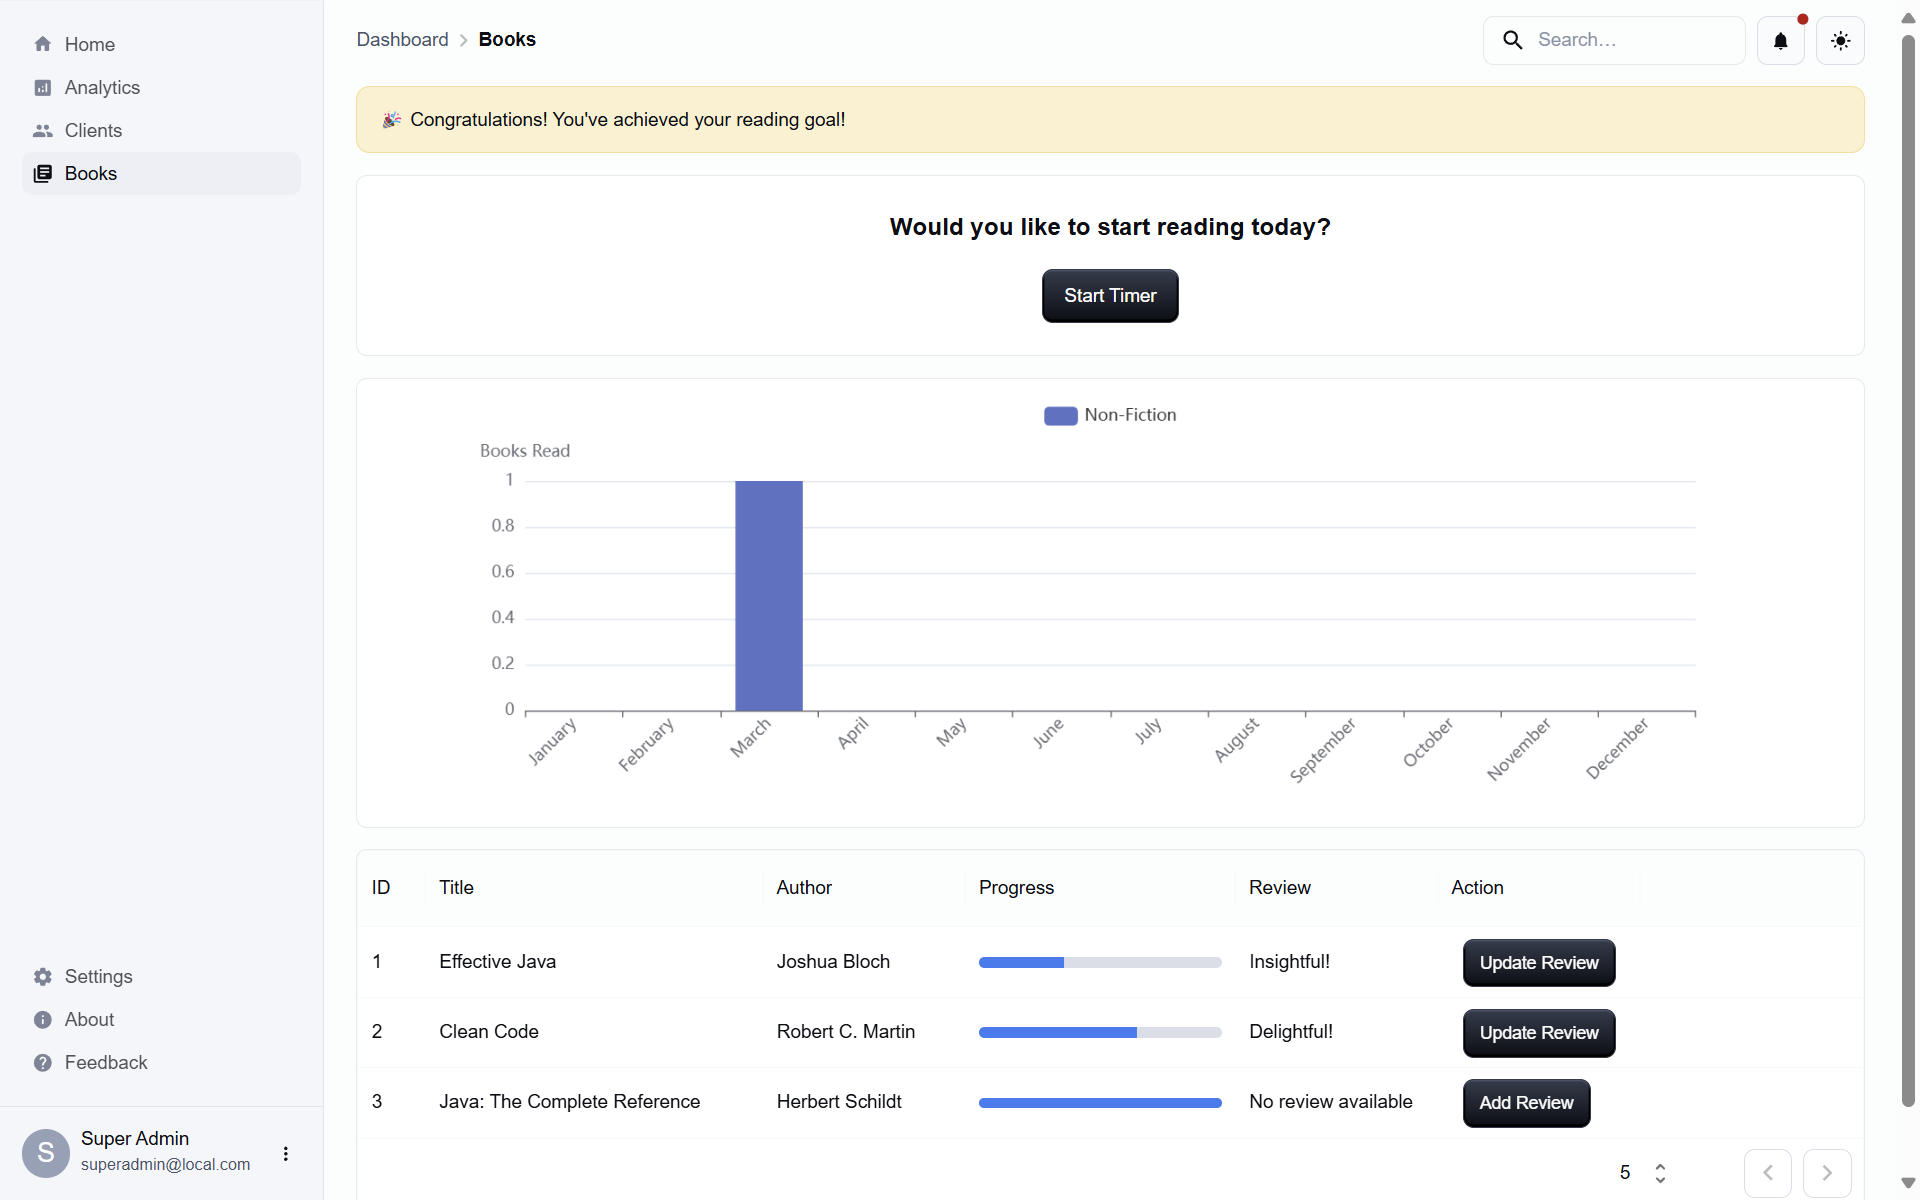
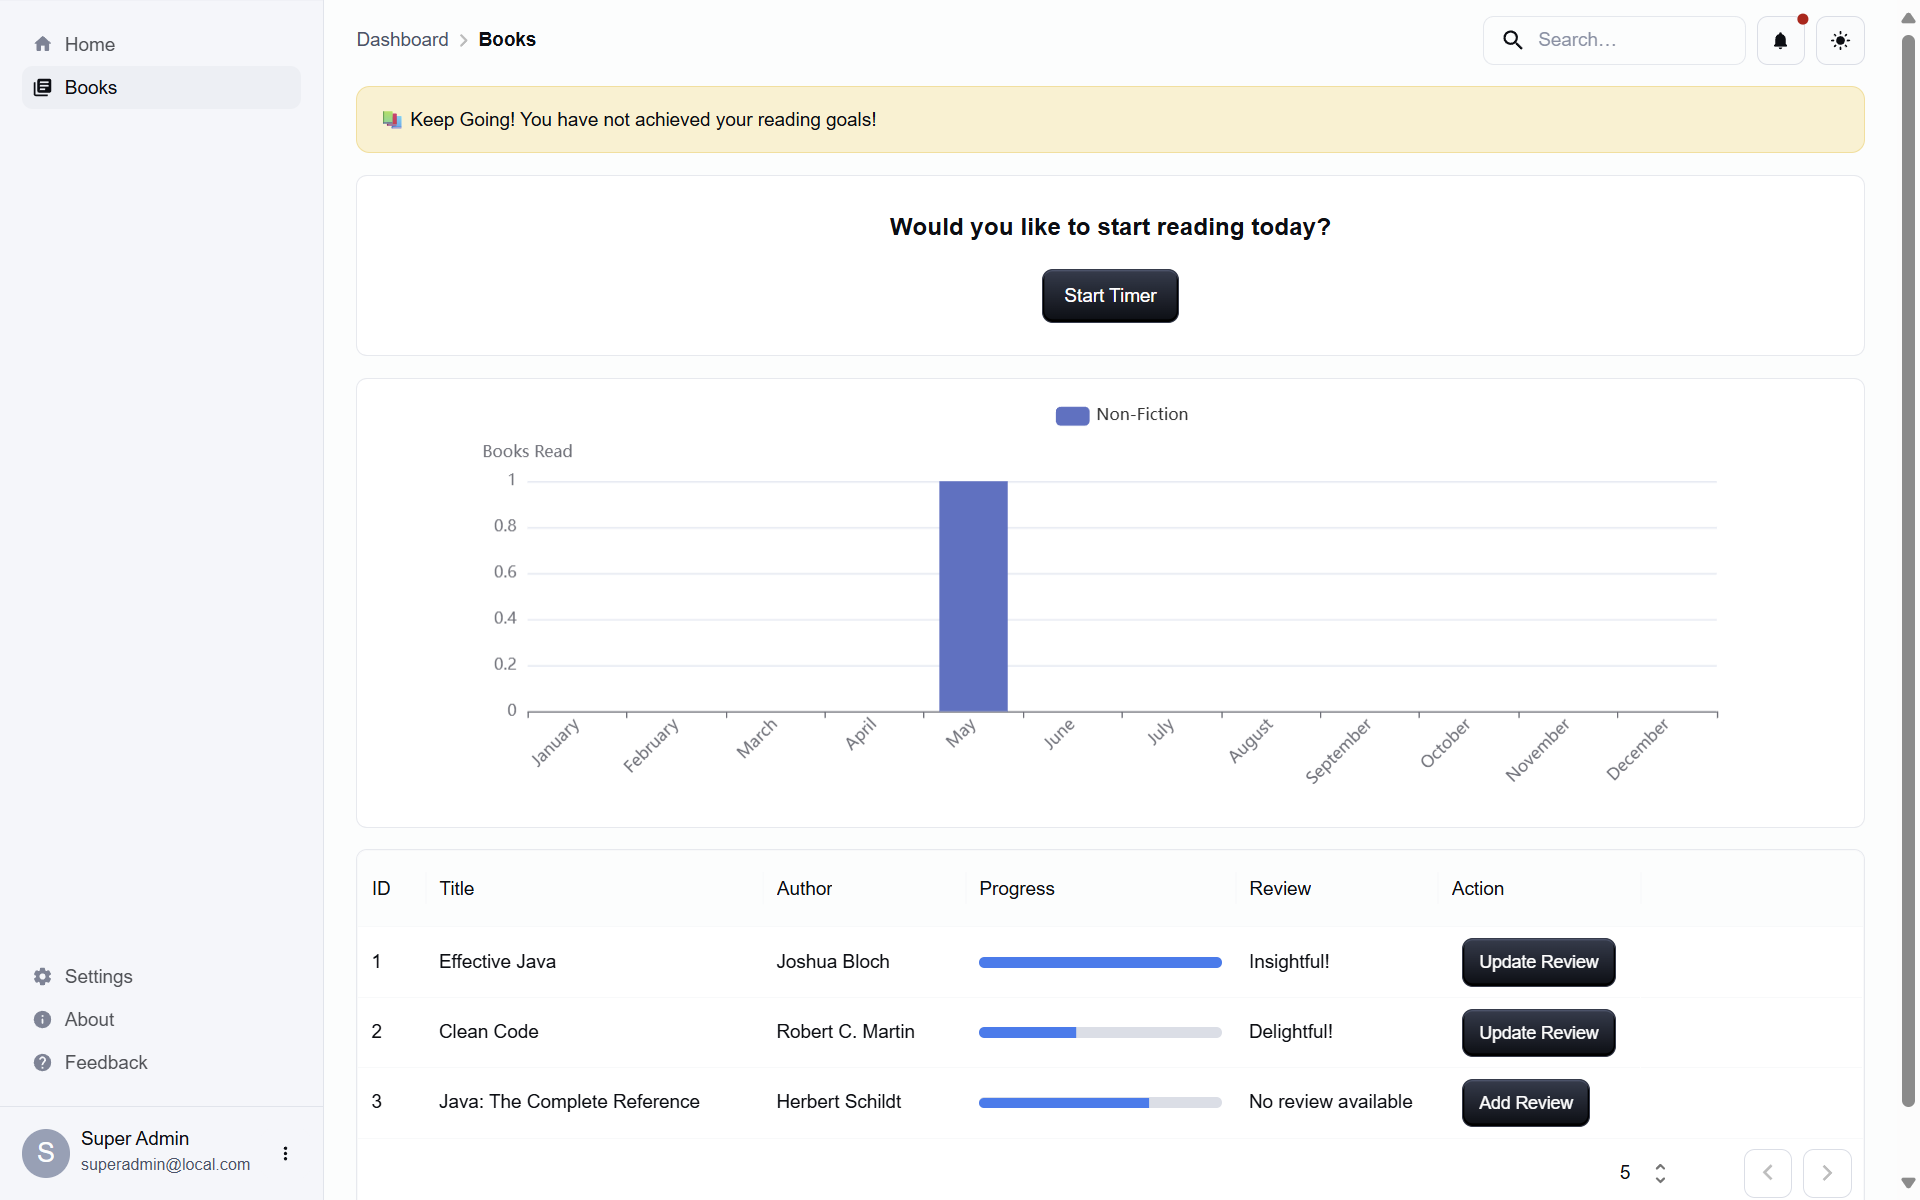
Update screenshots

diff --git a/client/src/dashboard/components/MenuContent.js b/client/src/dashboard/components/MenuContent.js
@@ -18,8 +18,8 @@ import { useLocation, Link } from "react-router-dom";
 
 const mainListItems = [
   { text: "Home", icon: <HomeRoundedIcon />, link: "/home" },
-  { text: "Analytics", icon: <AnalyticsRoundedIcon />, link: "/analytics" },
-  { text: "Clients", icon: <PeopleRoundedIcon />, link: "/clients" },
+  // { text: "Analytics", icon: <AnalyticsRoundedIcon />, link: "/analytics" },
+  // { text: "Clients", icon: <PeopleRoundedIcon />, link: "/clients" },
   { text: "Books", icon: <LibraryBooksIcon />, link: "/books" },
 ];
 
@@ -32,7 +32,7 @@ const secondaryListItems = [
 export default function MenuContent() {
   const location = useLocation();
   const selectedIndex = mainListItems.findIndex(
-    (item) => location.pathname === item.link,
+    (item) => location.pathname === item.link
   );
 
   return (

diff --git a/client/src/books/components/ReviewModal.js b/client/src/books/components/ReviewModal.js
@@ -50,7 +50,7 @@ const ReviewModal = ({
           // label="Review"
           multiline
           rows={4}
-          placeholder={selectedBook?.review.content ?? ""}
+          placeholder={selectedBook?.review?.content ?? ""}
           onChange={(e) => setNewReview(e.target.value)}
           sx={{
             "& .MuiInputBase-root": {
